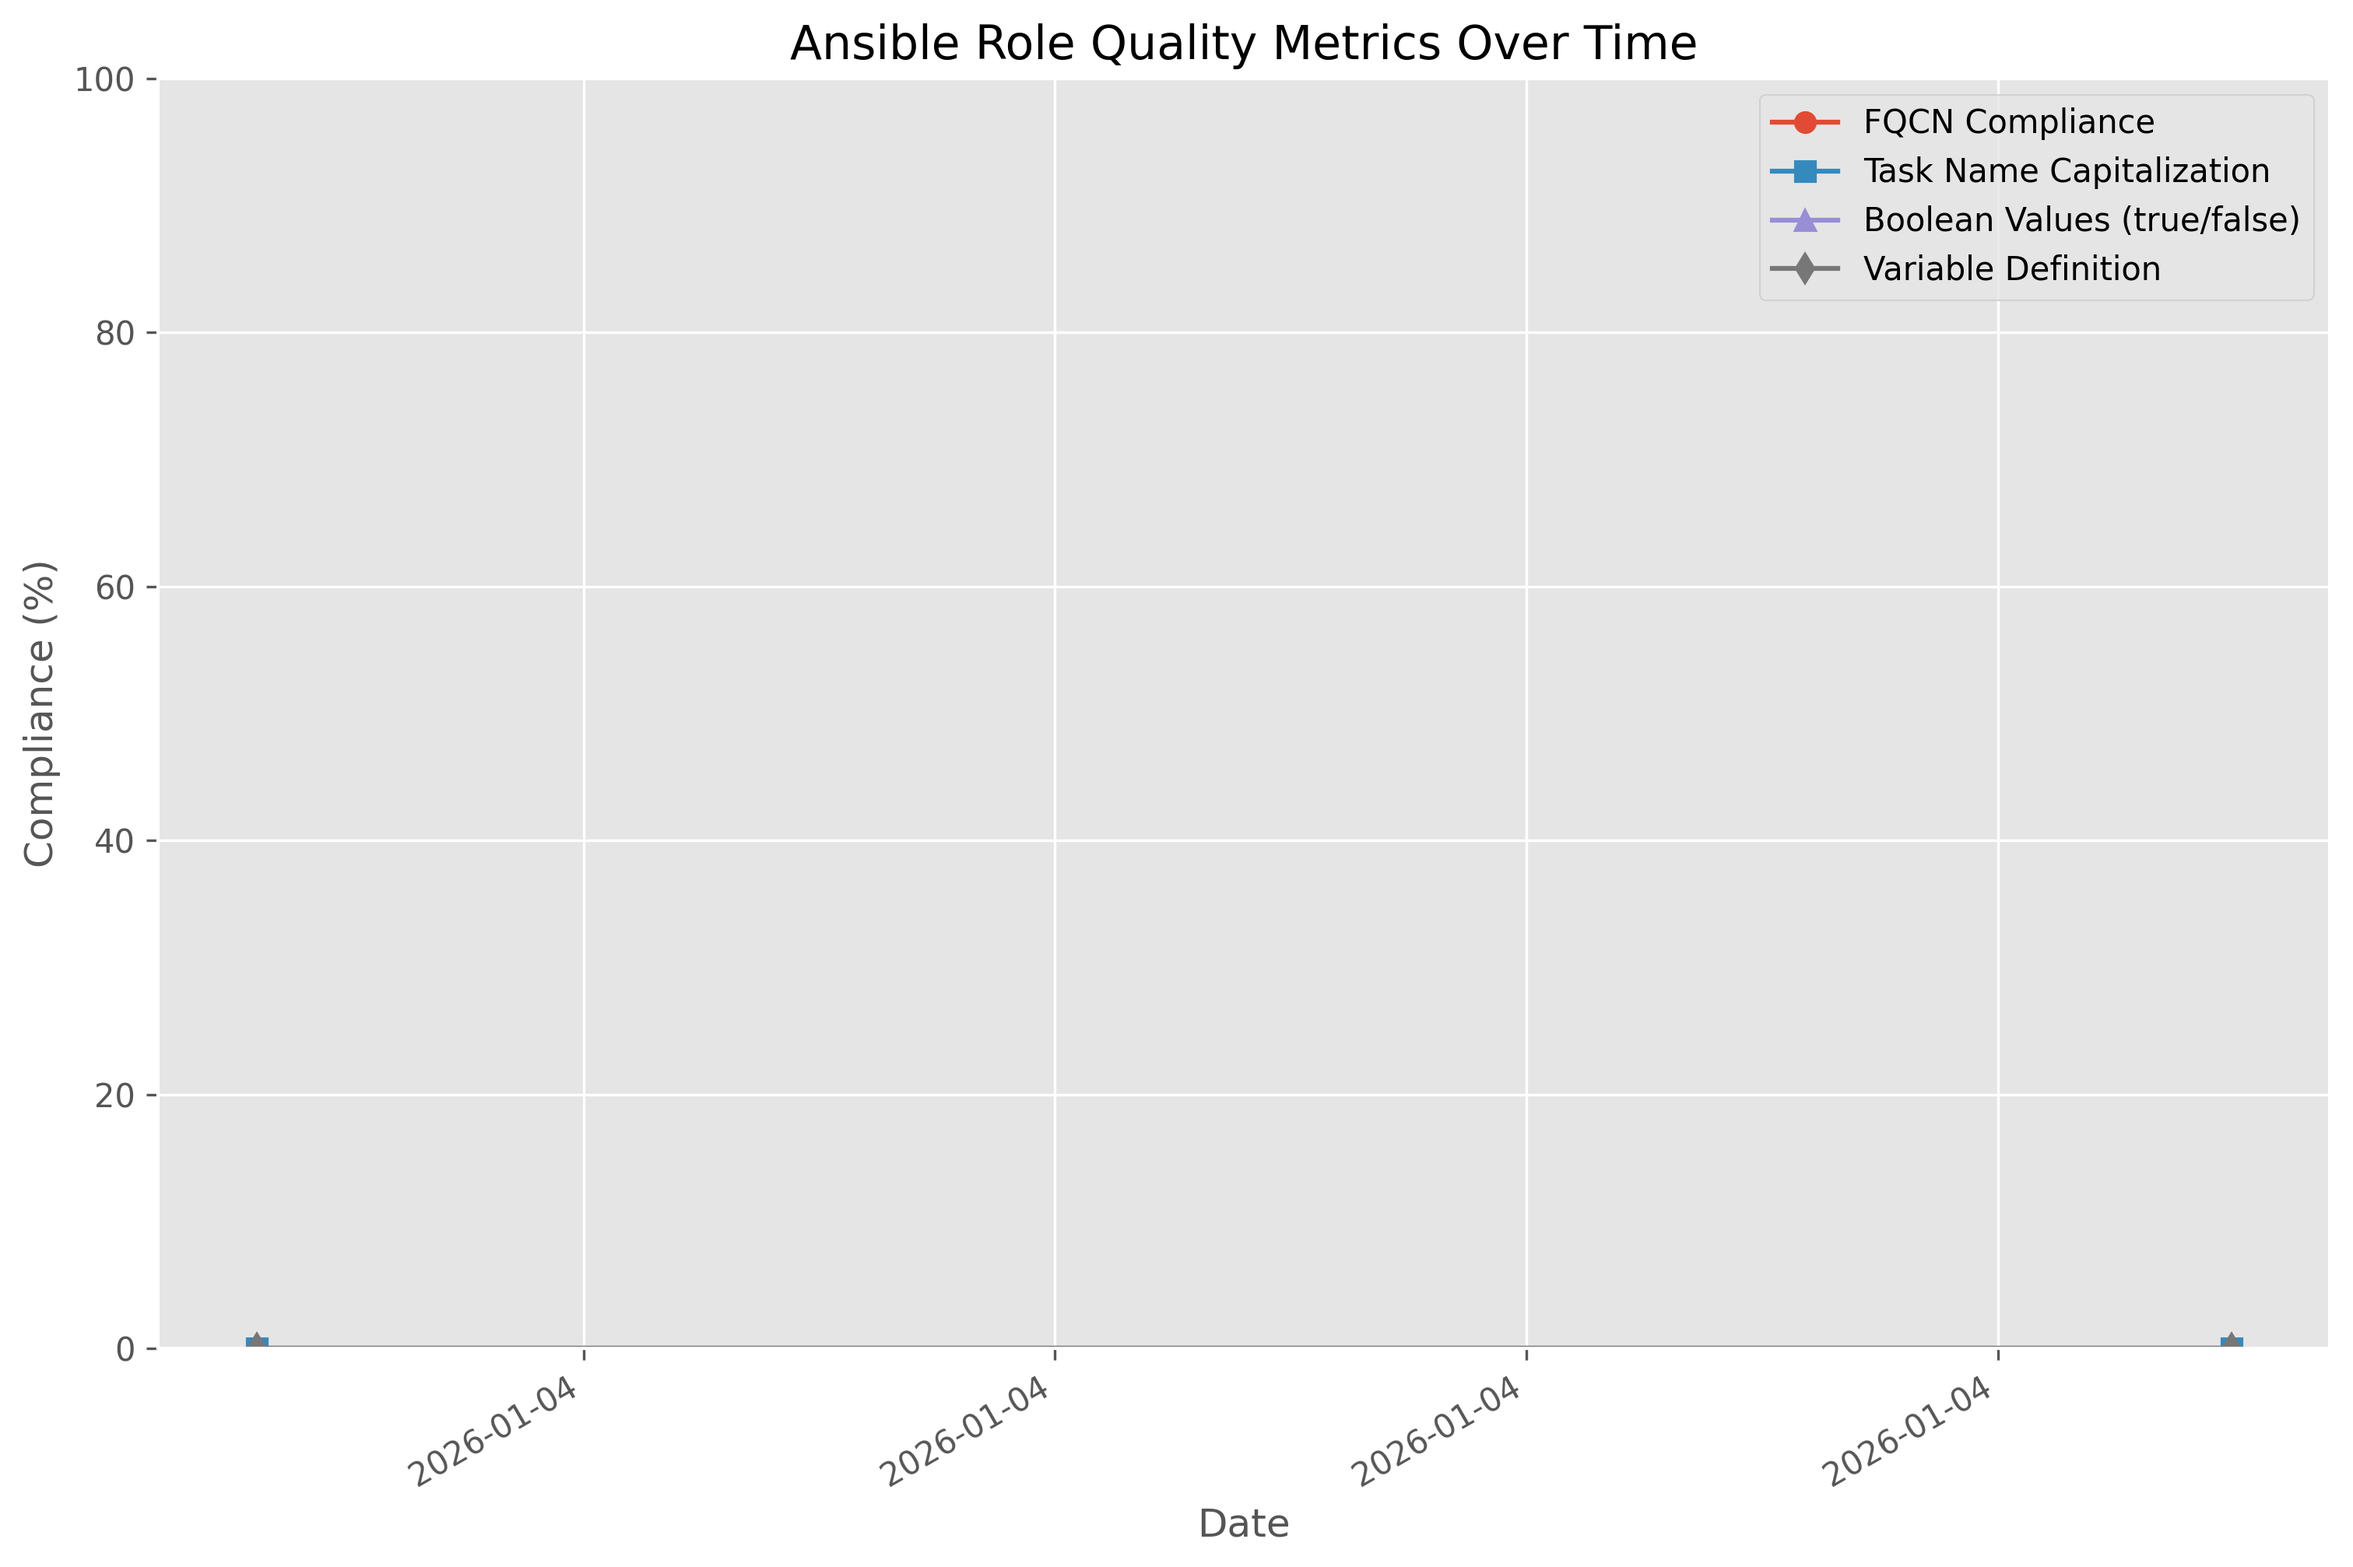
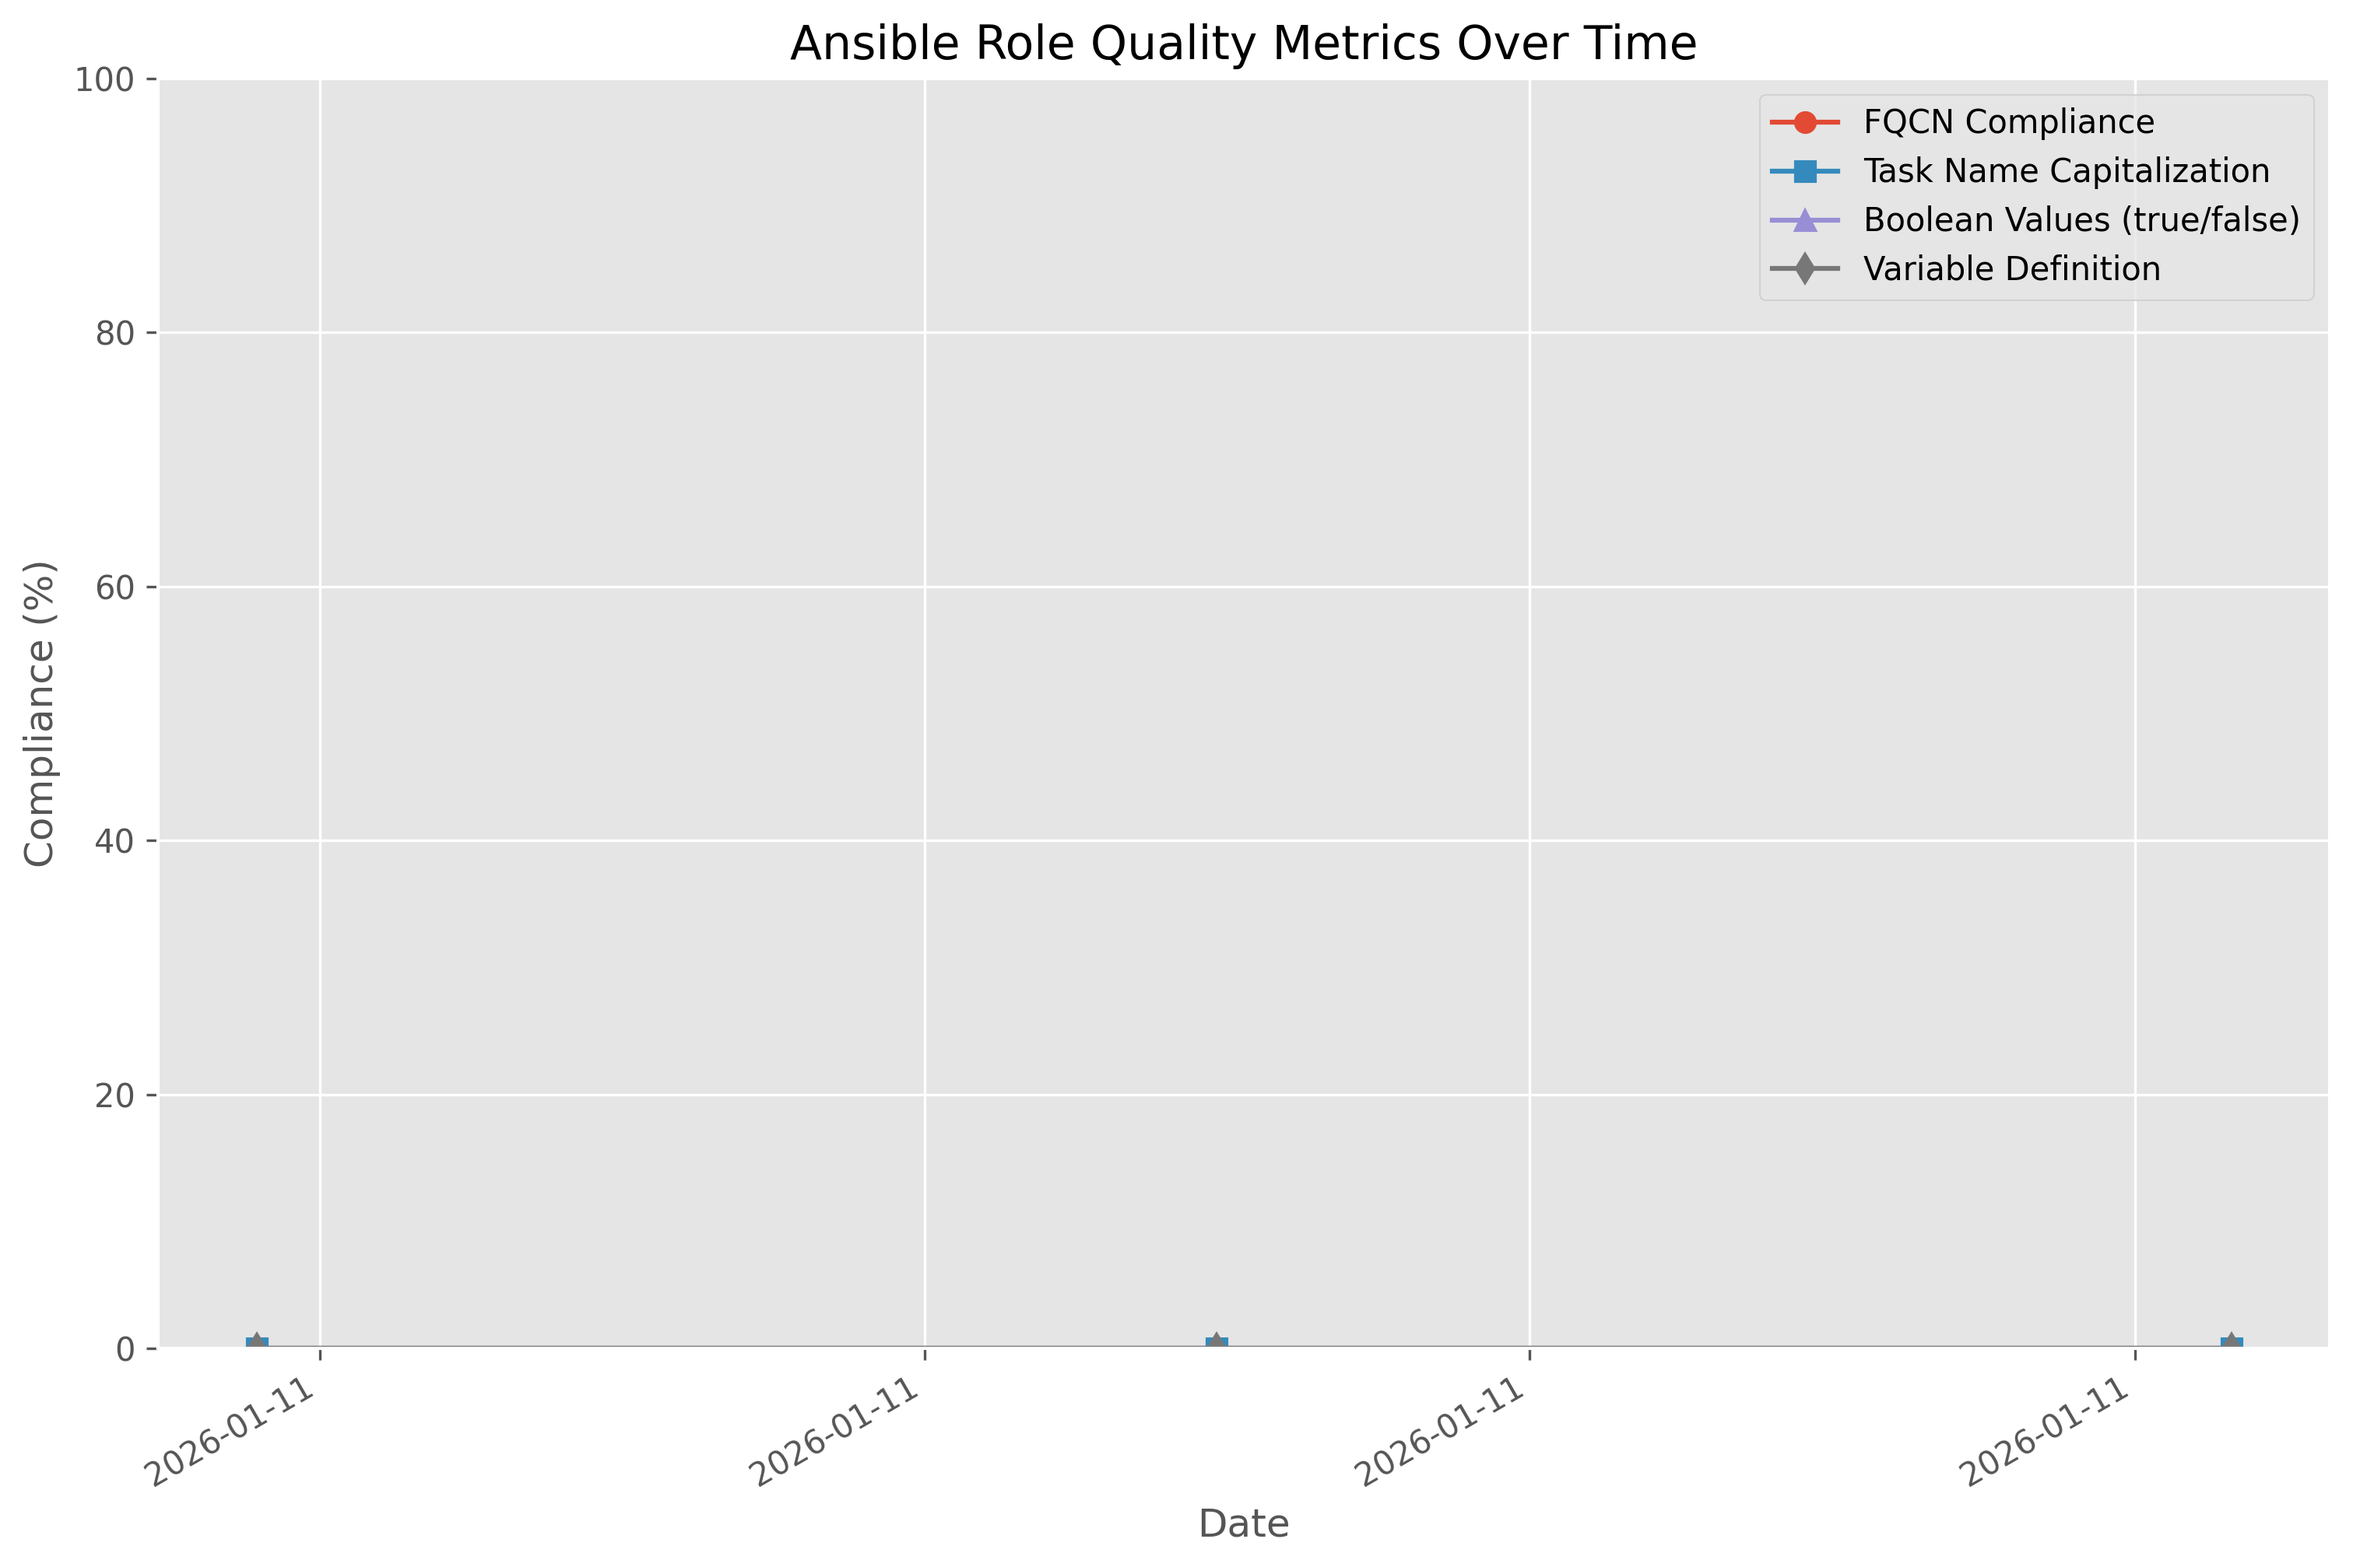
Update metrics (automated) 86381e575e3cb567ae7d61f2b827ec3665fe9a28

diff --git a/metrics/metrics_summary.md b/metrics/metrics_summary.md
@@ -1,6 +1,6 @@
 # Chef to Ansible Conversion Metrics
 
-Last updated: 2026-01-04 00:27:57
+Last updated: 2026-01-11 00:27:39
 
 ## Latest Compliance Metrics
 
